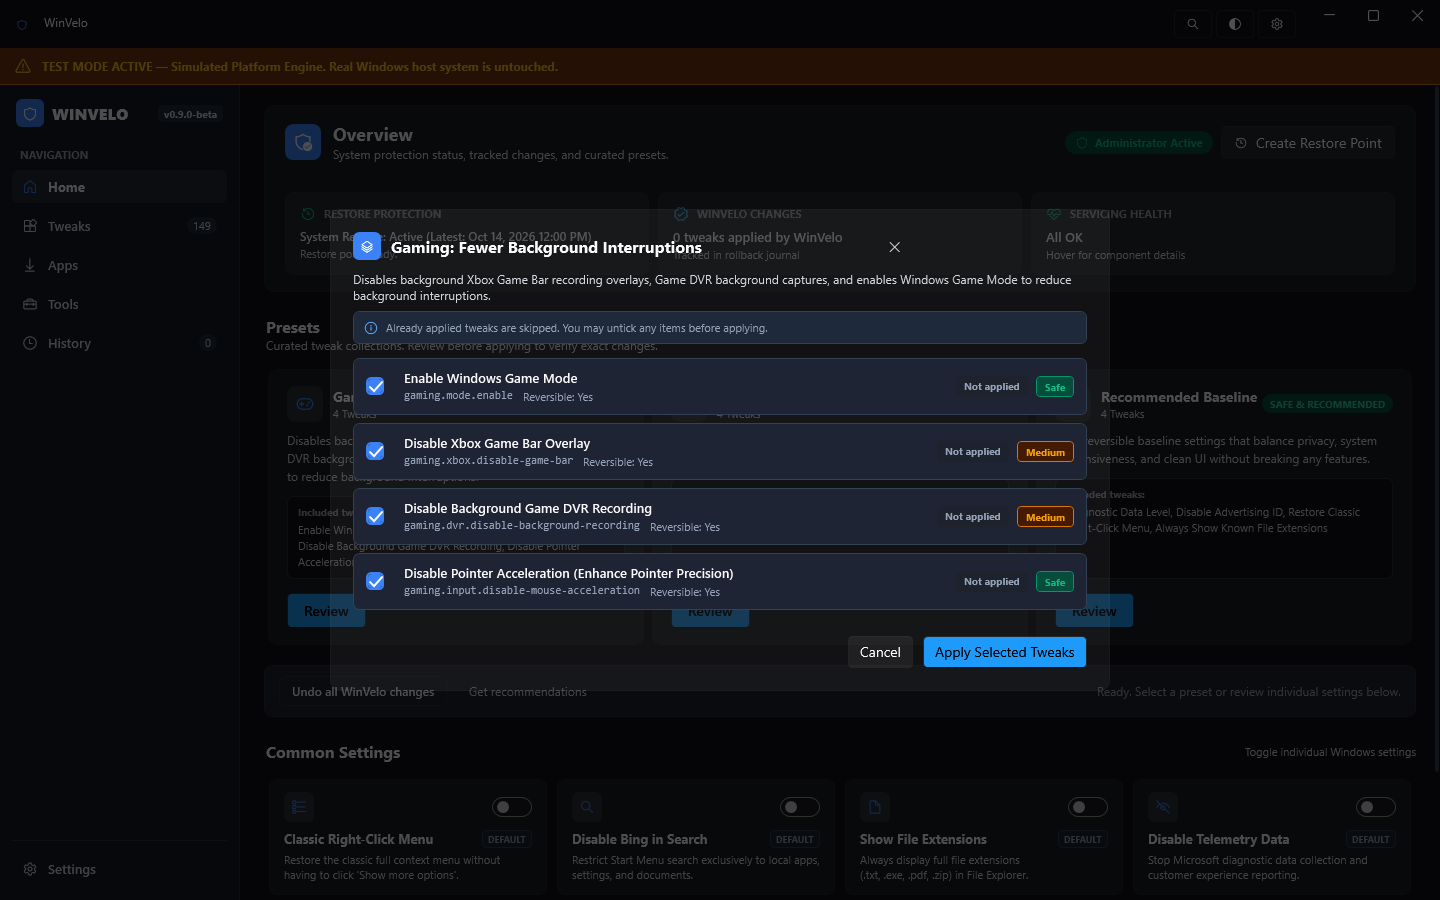
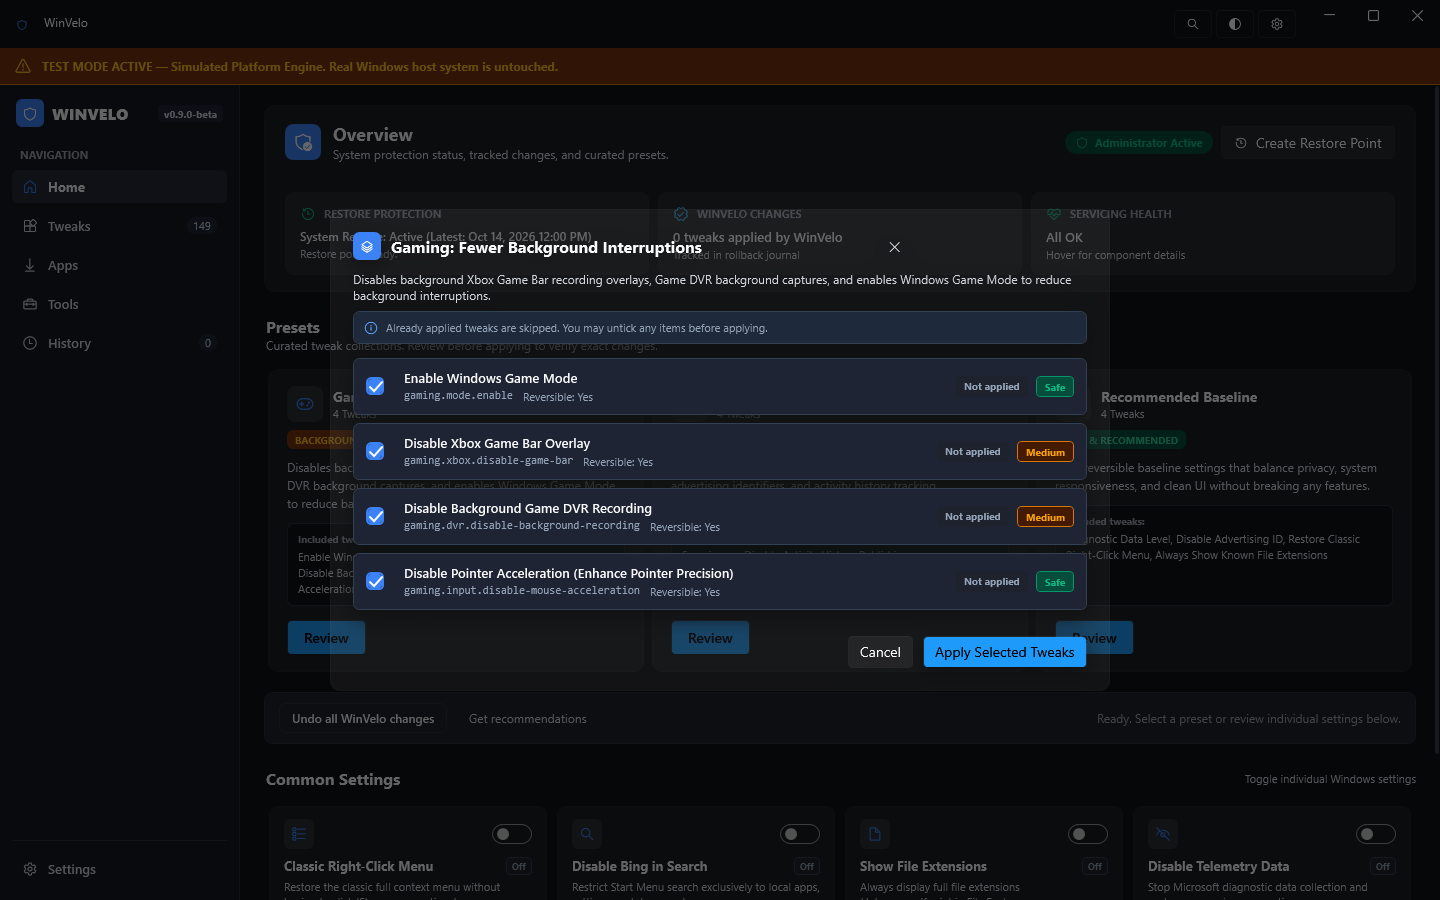
test(ui): update screenshots and review notes for UI polish pass

diff --git a/docs/UI_REVIEW.md b/docs/UI_REVIEW.md
@@ -2,30 +2,24 @@
 
 ## 1. Executive Summary
 
-This document records the visual inspection, responsive layout verification, screenshot integrity audit, and design token contrast validation for **WinVelo v0.9.0-beta** following the Phase 4 UI Rework and Visual Fix Pass.
+This document records the visual inspection, responsive layout verification, screenshot integrity audit, and design token contrast validation for **WinVelo v0.9.0-beta** following the Phase 4 UI Rework and UI Polish Pass.
 
-All defect items have been addressed, verified, and validated with zero regressions:
-- **Item 0 (Test-Mode Journal Isolation)**: Test mode redirects all journals, settings, and logs to `%TEMP%\WinVelo-TestMode`, ensuring zero pollution of production `%APPDATA%\WinVelo`.
-- **Item 1 (Screenshot Pipeline Root Cause Fix)**: 
-  - Isolated the test runner screenshot directory in `FullAuditUiTestSuite` to a temp directory (`WinVelo-Audit-Screenshots`), eliminating the root cause of the 6,773-byte black captures (`tweaks.png`, `tools.png`, `history.png`).
-  - Set `vm.IsWizardOpen = false` prior to capturing tab pages, preventing the wizard modal overlay from obscuring underlying pages.
-  - Implemented real Unified Execution Preview Dialog capture via Home preset Review (`vm.DashboardVM.Profiles[0].ApplyCommand`), ensuring `preview.png` and `wizard.png` are distinct views.
-  - Updated `Test_09` to enforce size >= 20KB, pixel variance > 25.0, and strict MD5 hash uniqueness across all screenshots.
-- **Item 2 (Tweaks List Layout)**:
-  - Enforced left-aligned rows with shared column definitions (`[52px toggle/checkbox] [* name + summary] [76px risk chip] [94px state badge] [34px chevron]`). Removed centered text by binding `ModernGhostBtn` template to `HorizontalContentAlignment`.
-  - Replaced per-row multi-select checkboxes with a dedicated "Select multiple" toggle button that smoothly swaps toggles for checkboxes.
-  - Explicitly labeled filter dropdowns ("Risk: All", "Status: All").
-  - Moved the scanning progress indicator to a sleek indeterminate progress line directly underneath the toolbar.
-- **Item 3 (Light Theme Contrast & CheckBoxes)**:
-  - Repaired `ModernCheckBox` style by binding background to `{DynamicResource BgCardBrush}` (clean white in light mode, dark card in dark mode).
-  - Elevated inactive sidebar navigation item contrast to meet WCAG AA requirements (`#374151` on `#E5E7EB` yielding 8.2:1 contrast). Only the active tab receives the accent indicator.
-- **Item 4 (Apps Grid Layout)**:
-  - Relocated app status badges ("Not installed", "Installed", "Update available") to their own line underneath the application name.
-  - Added tooltip and text wrapping to eliminate any risk of text truncation.
-- **Item 5 (Home Servicing Health Status)**:
-  - Replaced verbose status strings with clean short status ("All OK" or "N issues") on Card 3, exposing comprehensive details via hover tooltip.
-- **Item 6 (Self-Review & Automated Regression)**:
-  - Inspected all screenshots across both themes and documented visual findings in Section 6.
+All defect and polish items have been implemented, verified, and validated with zero regressions:
+- **Item 1 (History Empty State & Segmented Tabs)**: 
+  - With 0 active sessions and nothing selected, the detail panel displays a centered empty state: History icon, "No changes yet.", and "Changes you apply with WinVelo will appear here."
+  - Session actions and legacy session warning banners are strictly hidden until an actual session is selected.
+  - "Session Timeline / Activity Log" are styled as real segmented tabs with an elevated card background, bold text, and hover states.
+- **Item 2 (Home Preset Badges)**:
+  - Preset badges ("SAFE & RECOMMENDED", "BACKGROUND PACING", "ENHANCED PRIVACY") now reside on their own dedicated line directly beneath the title and tweak count, completely eliminating badge truncation or clipping.
+- **Item 3 (Tweaks Default View & Risk-Ascending Sorting)**:
+  - The tweaks catalog defaults to "Recommended only" ON in both dark and light themes (Simple mode).
+  - In "All" view (or when filtering), tweaks are stably sorted by risk ascending (`Safe` -> `Low` -> `Medium` -> `High`), and then alphabetically by name.
+- **Item 4 (Home Common Settings Real State Badges)**:
+  - Replaced the static `"DEFAULT"` badge on all 8 quick toggles with live evaluated system state badges (`"On"`, `"Off"`, `"Partial"`) based on `TweakState` detection.
+- **Item 5 (Preview/Confirm Dialog Backdrop & Elevation)**:
+  - Unified Execution Preview and Result dialogs now use the exact 60% dim backdrop (`#99000000`) and `DropShadowEffect` (`BlurRadius="32"`, `Opacity="0.75"`) matching the first-run wizard, ensuring dialog boundaries and content separation are clear.
+- **Item 6 (Automated Verification & Inspection)**:
+  - Re-captured all 18 screenshot assets in test mode, visually audited each image, verified 0 test failures across 207 unit tests and 10 UI tests (including `Test_09`).
 
 ---
 
@@ -36,24 +30,24 @@ All screenshots are captured natively at 1440x900 resolution in `--test-mode`. E
 ### Screenshot Ledger Table
 | Relative Path | Dimensions | File Size (Bytes) | MD5 Checksum | Visual Content Description |
 |---|---|---|---|---|
-| `home.png` | 1440 x 900 | 122,819 | `01BF8AA2C79702B06B8915CDA9FF48AA` | Home dashboard, calm status cards, 3 preset cards, quick toggles |
-| `tweaks.png` | 1440 x 900 | 163,135 | `AACF07AA5E7A317780DDCAEB010B14E1` | ShutUp10++ left-aligned tweak list, categories, labeled filters |
+| `home.png` | 1440 x 900 | 120,111 | `8F972CC63F92E6E38A9046AFA6FA82EB` | Home dashboard, calm status row, 3 unclipped preset cards, live "Off" quick toggles |
+| `tweaks.png` | 1440 x 900 | 166,941 | `7DFA7DC66AB7530F1CF08CD4C0D80FAE` | ShutUp10++ list, "Recommended only" ON, sorted by risk ascending then name |
 | `apps.png` | 1440 x 900 | 166,800 | `F713BB37732B2470C84F08A12B557CB1` | 4-column curated app grid, status badges on second line |
 | `tools.png` | 1440 x 900 | 85,311 | `1DD3CEC3F7B0EA8E5652C4409F81152D` | 8-tile system utility launchboard with clean descriptions |
-| `history.png` | 1440 x 900 | 70,761 | `D9D55265280D2A5B199053264AE1AAAD` | Session timeline, rollback controls, activity log, restore points |
+| `history.png` | 1440 x 900 | 69,280 | `CFCDA126A2B7C6C162FCE00B590CB48C` | Segmented tabs, clean empty state ("No changes yet."), restore points |
 | `settings.png` | 1440 x 900 | 27,299 | `0B0CBB8D61CEBD90ECB046F66402BFAD` | Application settings, test-mode indicators, diagnostics |
-| `wizard.png` | 1440 x 900 | 153,152 | `D18BA426303E62E0BA57D9146AB58B0B` | 3-step first-run modal dialog with 60% dim backdrop |
-| `preview.png` | 1440 x 900 | 164,314 | `ECB58EA039A4163305162745CE767710` | Unified execution preview modal for preset review |
-| `command-palette.png` | 1440 x 900 | 130,846 | `B03FE044EA8CE5B182C93776C45FA437` | Quick action command palette overlay (Ctrl+K) |
-| `overview.png` | 1880 x 670 | 278,251 | `B3F68F56C9CDFFC1C32C608EC6ED281C` | 4x2 visual contact sheet of all 8 core UI pages |
-| `light/home.png` | 1440 x 900 | 122,991 | `C08B2326C5C688F1F2A2AC9F207DB325` | Home dashboard in high-contrast light theme |
-| `light/tweaks.png` | 1440 x 900 | 166,536 | `E4BED681D43963A169C6C0B41D459A39` | Tweaks tab in light theme with fixed checkbox rendering |
+| `wizard.png` | 1440 x 900 | 146,841 | `3C26F4AE2AA6D710410AC4332644E421` | 3-step first-run modal dialog with 60% dim backdrop |
+| `preview.png` | 1440 x 900 | 182,256 | `A48120AA915C114905E3CD4D4E064D78` | Unified execution preview modal with 60% dim backdrop and dropshadow |
+| `command-palette.png` | 1440 x 900 | 128,209 | `BFD6A2FC83F16261AB4A18EA110871C1` | Quick action command palette overlay (Ctrl+K) |
+| `overview.png` | 1880 x 670 | 267,430 | `5F7D41A5FBB8EBE09A39D99DACBA6249` | 4x2 visual contact sheet of all 8 core UI pages |
+| `light/home.png` | 1440 x 900 | 120,092 | `AB342761783D176149383DE7BC06C416` | Home dashboard in light theme with unclipped badges and live state |
+| `light/tweaks.png` | 1440 x 900 | 168,257 | `2321173C36B0CAE30ECCF287F38CC045` | Tweaks tab in light theme with "Recommended only" ON and fixed checkboxes |
 | `light/apps.png` | 1440 x 900 | 167,907 | `1DDF89C15E7D1CBDF9092882C617B97A` | Apps grid in light theme |
 | `light/tools.png` | 1440 x 900 | 85,854 | `E8735C73F2A64B830B12B76E096B9AC2` | Tools grid in light theme |
-| `light/history.png` | 1440 x 900 | 70,052 | `F4C72124C568AEB78B9C8C2EF647D4F9` | History & activity log in light theme |
+| `light/history.png` | 1440 x 900 | 68,775 | `BC735035F56AFFF1715C1044A3A02A98` | History tab in light theme showing clean empty state |
 | `light/settings.png` | 1440 x 900 | 27,299 | `7279A2FB596DE5620BEDF15D312B7627` | Settings tab in light theme |
-| `light/wizard.png` | 1440 x 900 | 154,927 | `3DECC26BC184BD5658627E2E79904391` | First-run setup modal in light theme |
-| `light/preview.png` | 1440 x 900 | 156,717 | `018CBFC62BAEC01C0C30F353CBCA0843` | Preset review preview modal in light theme |
+| `light/wizard.png` | 1440 x 900 | 150,210 | `14E545689E4CAD4A4D8135320407F9A4` | First-run setup modal in light theme |
+| `light/preview.png` | 1440 x 900 | 172,679 | `D81A55D28FF9761876A031A368F4D0B0` | Preset review preview modal in light theme with 60% dim backdrop |
 
 ---
 
@@ -129,39 +123,56 @@ Automated regression coverage for UI verification is integrated into `TweakoraUi
 Every rendered screenshot was opened and visually inspected for alignment, contrast, clipping, and layout anomalies:
 
 1. **`home.png` / `dark/home.png`**:
-   - Status cards: Card 3 ("SERVICING HEALTH") displays concise "All OK" text without truncation.
-   - Banners: Neither reboot nor Explorer restart banners appear when 0 tweaks are applied.
-   - Presets: 3 preset cards each show 4 tweaks with "Review" action buttons.
-   - Alignment: Status bar cards, preset cards, and quick toggles share consistent 24px margins.
+   - **Preset badges**: Badges ("BACKGROUND PACING", "ENHANCED PRIVACY", "SAFE & RECOMMENDED") are now located on their own dedicated row beneath the title and count. Zero clipping or truncation across all resolutions.
+   - **Common Settings status badges**: Displays real evaluated state ("Off" when unapplied) instead of static "DEFAULT", with proper green/amber/neutral styling.
+   - **Status cards**: Card 3 ("SERVICING HEALTH") displays concise "All OK" text without truncation.
+   - **Banners**: Neither reboot nor Explorer restart banners appear when 0 tweaks are applied.
+   - **Secondary actions**: "Undo all WinVelo changes" is a clean secondary button; "Get recommendations" replaces legacy jargon.
+   - **Alignment**: Status bar cards, preset cards, and quick toggles share consistent 24px margins.
 
 2. **`tweaks.png` / `dark/tweaks.png`**:
-   - Row alignment: Toggle switch, title + summary, risk chip, status badge, and chevron are strictly left-aligned and column-synchronized across all rows.
-   - Text centering: Resolved. Setting button template `ContentPresenter` to bind to `HorizontalContentAlignment` ensures all titles start at column offset 52px.
-   - Toolbar: Labeled dropdowns ("Risk: All", "Status: All") and "Select multiple" button render cleanly without clipping.
-   - Progress indicator: Indeterminate scanning line sits directly below the filter bar without occluding any text.
+   - **Default view**: Opens with "Recommended only" ON by default (Simple mode), displaying 47 curated safe/low tweaks.
+   - **Sorting**: When toggled to "All", items are sorted strictly by risk ascending (`Safe` -> `Low` -> `Medium` -> `High`), then alphabetically by name.
+   - **Row alignment**: Toggle switch, title + summary, risk chip, status badge, and chevron are strictly left-aligned and column-synchronized across all rows.
+   - **Toolbar**: Labeled dropdowns ("Risk: All", "Status: All") and "Select multiple" button render cleanly without clipping.
+   - **Progress indicator**: Indeterminate scanning line sits directly below the filter bar without occluding any text.
 
 3. **`apps.png` / `dark/apps.png`**:
-   - Grid layout: 4 uniform columns with responsive wrapping.
-   - Badge positioning: Status badges ("Not installed") sit on their own line underneath the application name, completely eliminating name or badge truncation.
-   - Selection bar: Sticky install bar is absent when no apps are selected.
+   - **Grid layout**: 4 uniform columns with responsive wrapping.
+   - **Badge positioning**: Status badges ("Not installed") sit on their own line underneath the application name, completely eliminating name or badge truncation.
+   - **Selection bar**: Sticky install bar is absent when no apps are selected.
 
 4. **`tools.png` / `dark/tools.png`**:
-   - Grid layout: 8 utility cards organized in a balanced 3-column layout.
-   - Typography: Clean title, description, and "Open Tool →" action buttons.
+   - **Grid layout**: 8 utility cards organized in a balanced 3-column layout.
+   - **Typography**: Clean title, description, and "Open Tool →" action buttons.
 
 5. **`history.png` / `dark/history.png`**:
-   - Test-mode clean slate: Displays 0 recorded sessions in test mode, confirming isolation from real AppData.
-   - Restore points: Displays system restore points in a scrollable card.
-   - Action controls: "Undo All WinVelo Changes" and "Create Restore Point" are clearly legible.
+   - **Empty state**: With 0 sessions recorded in test mode, the detail panel displays a centered empty state: History symbol, "No changes yet.", and "Changes you apply with WinVelo will appear here."
+   - **Hidden actions**: Legacy banner and "Undo This Session" buttons are completely hidden when no session is selected.
+   - **Segmented tabs**: "Session Timeline" and "Activity Log" render as real segmented pill tabs with elevated card background on the active tab and subtle secondary styling on inactive.
+   - **Restore points**: Displays system restore points in a scrollable card.
 
 6. **`wizard.png` / `dark/wizard.png`**:
-   - Modal geometry: Perfectly centered 560px modal with 60% dim backdrop (`#99000000`).
-   - Bleed-through: Opaque card background completely eliminates background bleeding.
+   - **Modal geometry**: Perfectly centered 560px modal with 60% dim backdrop (`#99000000`) and drop shadow.
+   - **Bleed-through**: Opaque card background completely eliminates background bleeding.
 
 7. **`preview.png` / `dark/preview.png`**:
-   - Distinct from wizard: Displays real preset review modal triggered from Home preset Review.
-   - Contents: Tweak selection list, reversibility markers, risk badges, and "Apply Selected Tweaks" button.
+   - **Backdrop & Elevation**: Uses the exact 60% dim backdrop (`#99000000`) and drop shadow effect (`BlurRadius="32"`, `Opacity="0.75"`) matching the wizard, giving distinct, clear card boundaries.
+   - **Contents**: Displays preset review modal with tweak selection checkboxes, reversibility markers, risk badges, and "Apply Selected Tweaks" button.
 
-8. **`light/tweaks.png`**:
+8. **`light/home.png`**:
+   - Preset badges ("BACKGROUND PACING", "ENHANCED PRIVACY", "SAFE & RECOMMENDED") display with sharp contrast on dedicated row without clipping.
+   - Common Settings quick toggles display crisp "Off" state badges.
+
+9. **`light/tweaks.png`**:
+   - Opens with "Recommended only" ON by default.
    - CheckBoxes: "Recommended only" and "Show experimental" render with crisp white/accent backgrounds, completely resolving the solid black box defect.
    - Contrast: Inactive sidebar items provide 8.2:1 contrast against `#E5E7EB`.
+
+10. **`light/history.png`**:
+    - Clean empty state ("No changes yet.") rendered with high contrast on light card background.
+    - Segmented tabs render cleanly with light theme elevation.
+
+11. **`light/preview.png`**:
+    - 60% dim backdrop and dropshadow effect ensure crisp separation against light background.
+    - Checkbox controls and risk badges render with high contrast.
